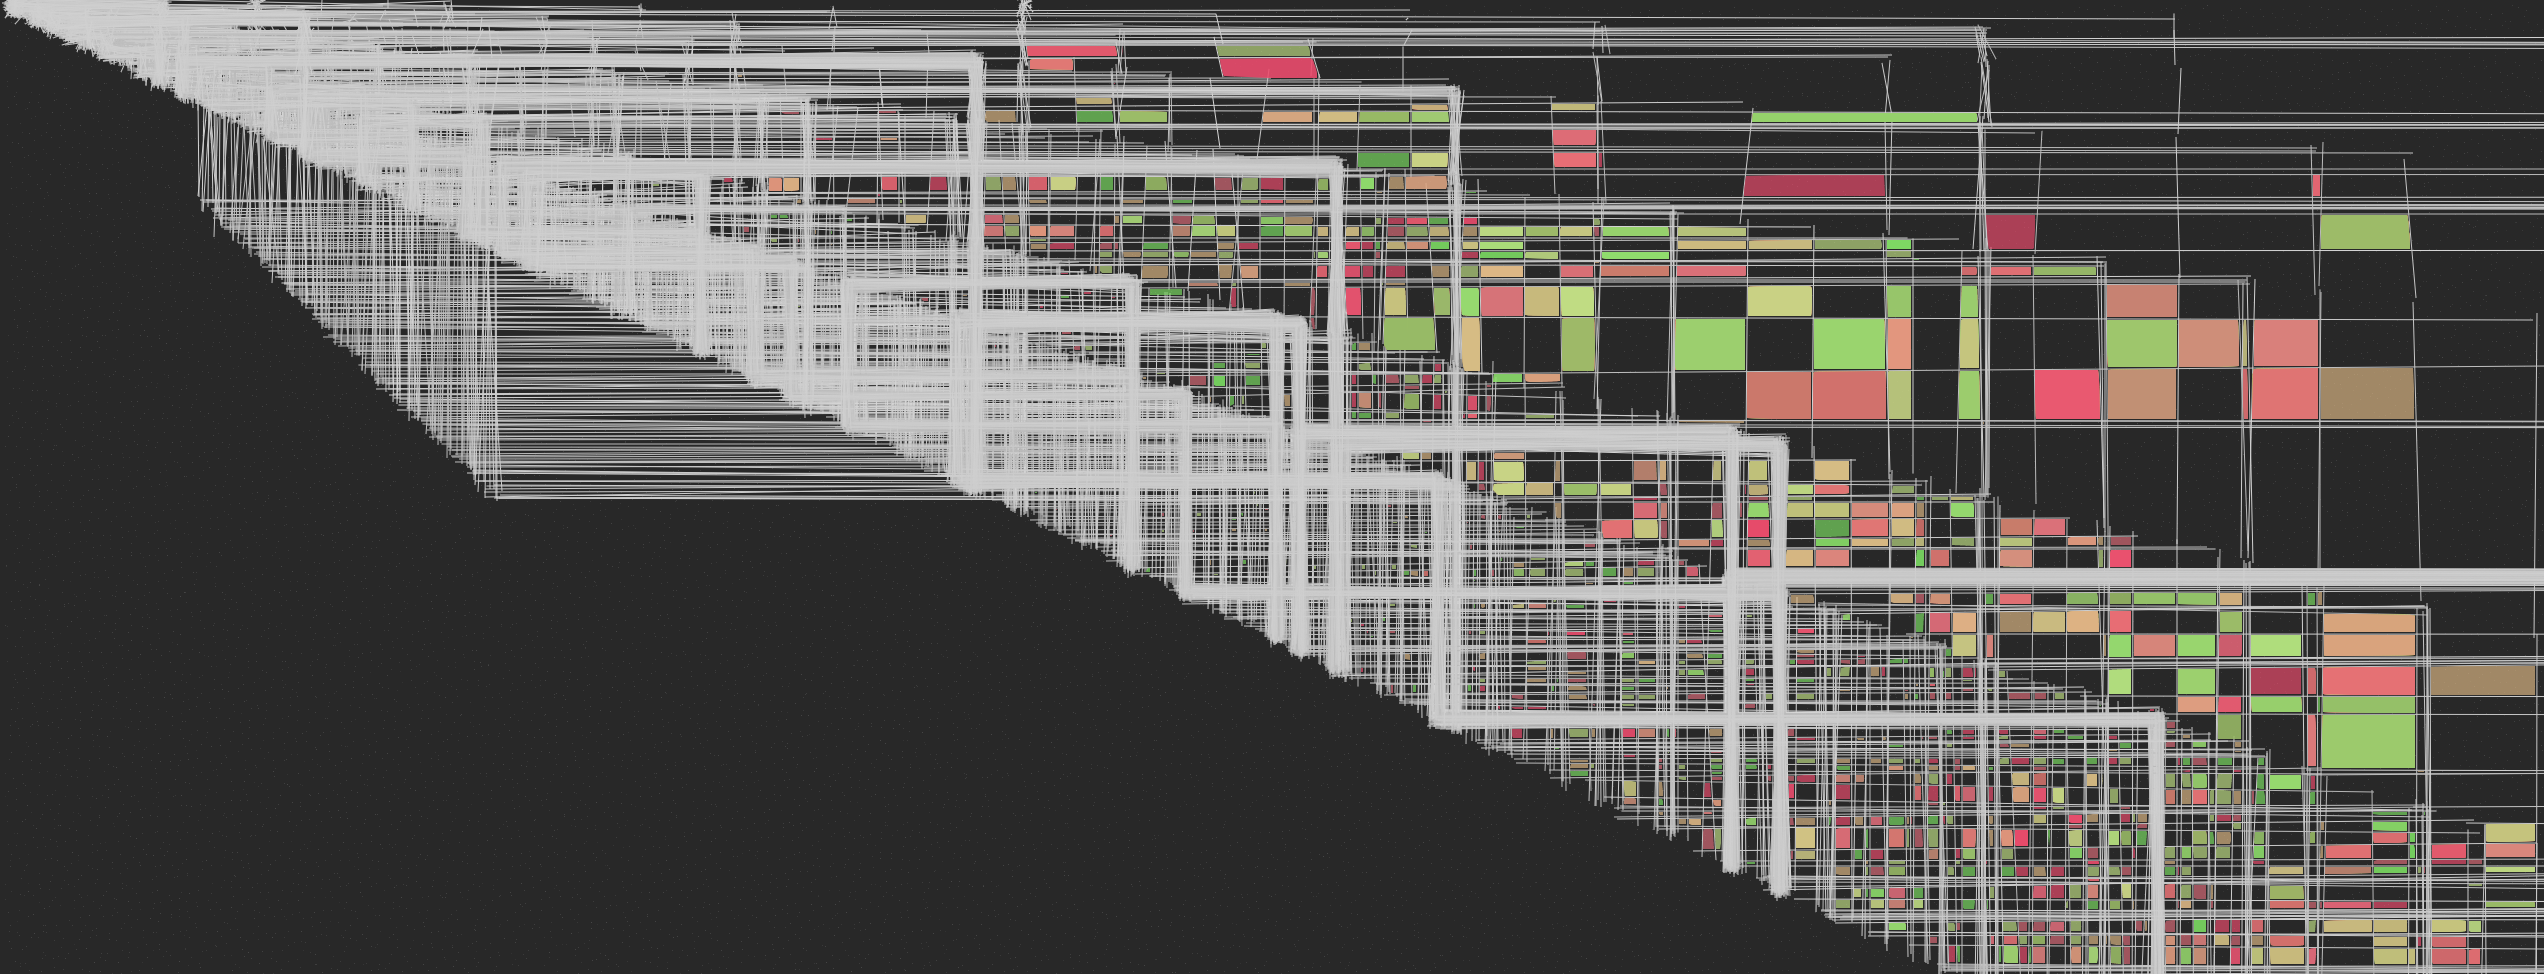
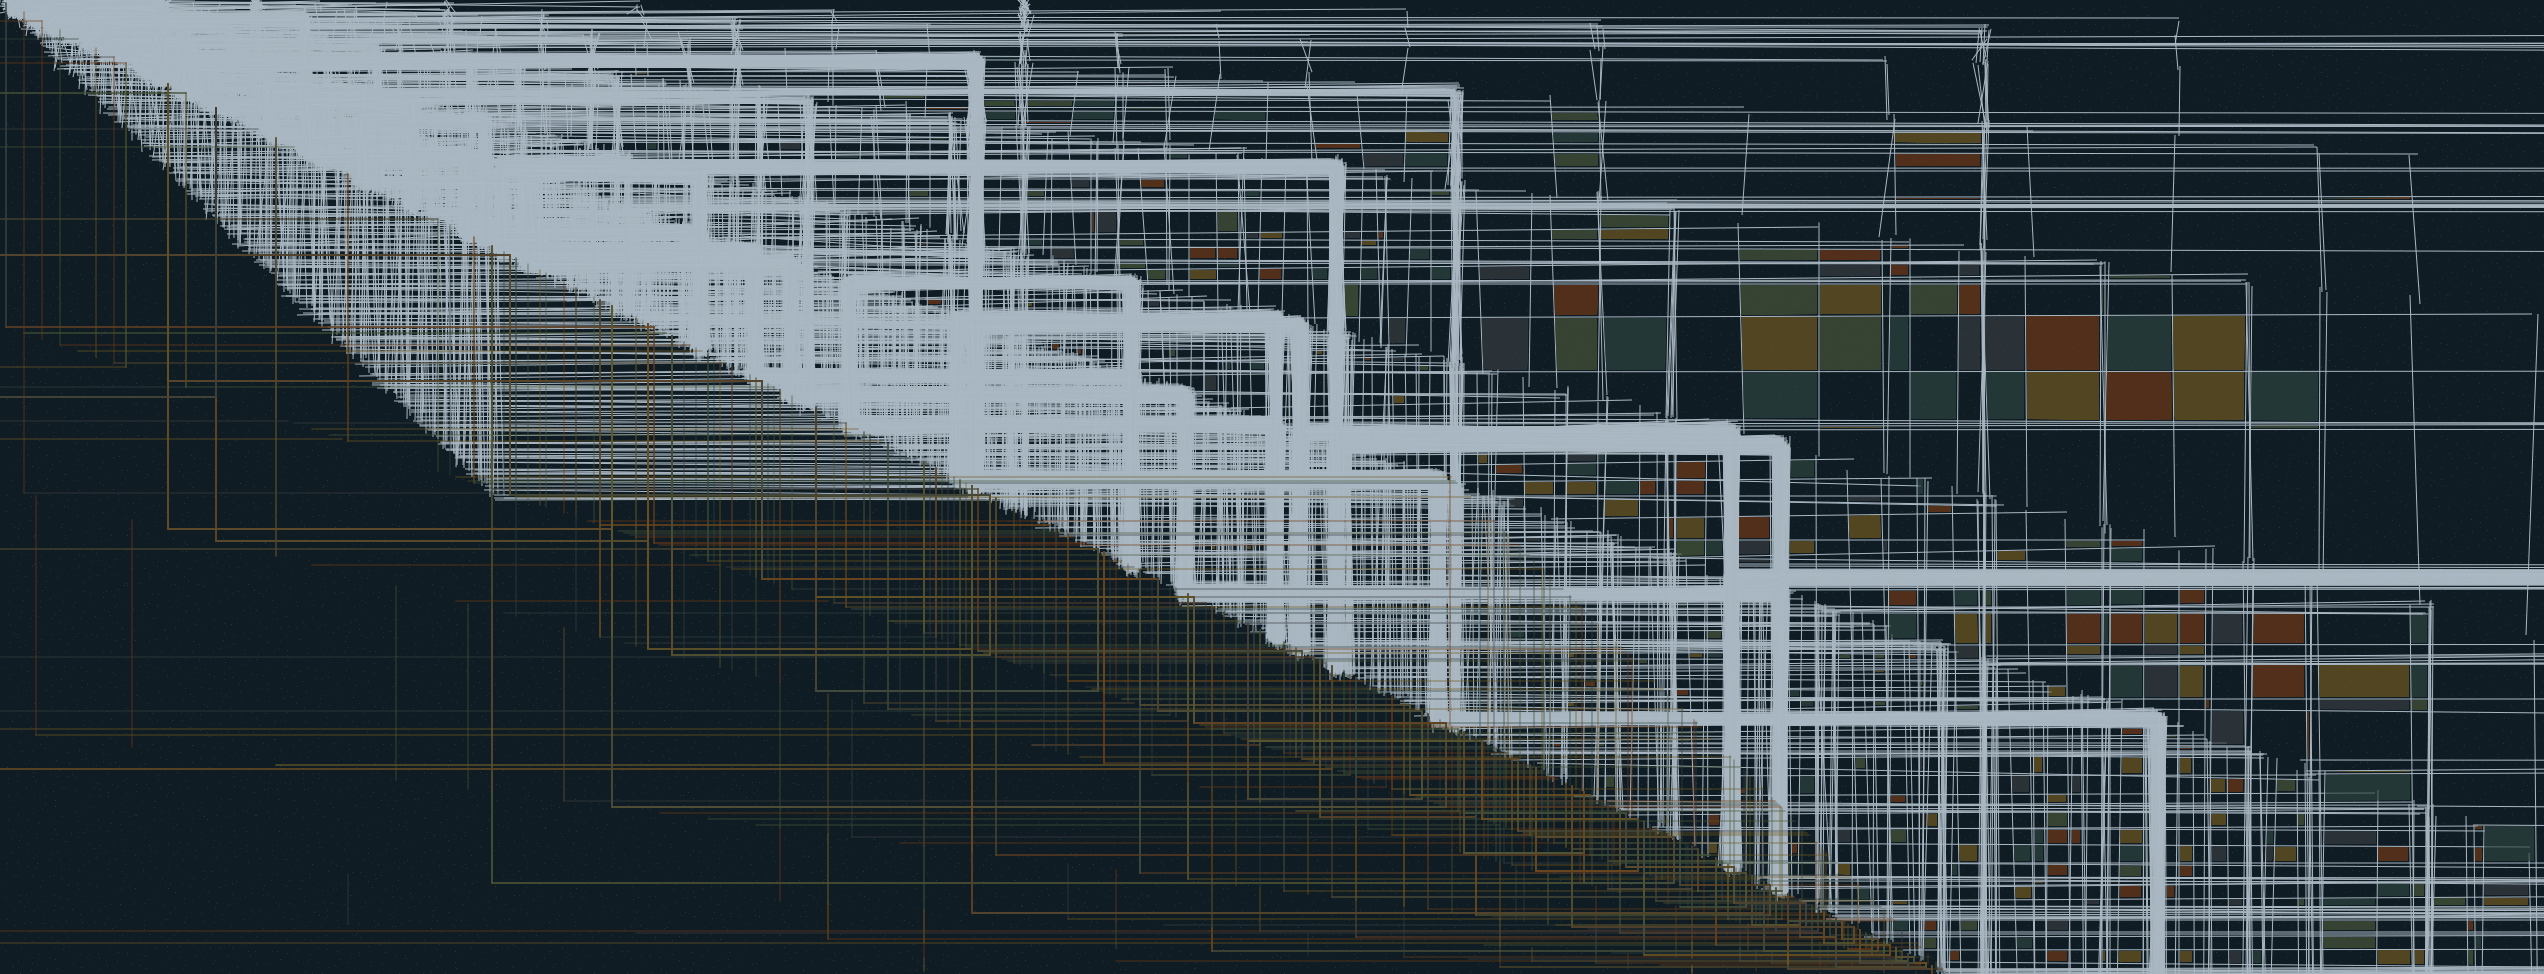
add bottom colored lines

diff --git a/collatz/collatz.js b/collatz/collatz.js
@@ -9,13 +9,13 @@ const LINE_MEAN = 0;
 // std dev for gauss randomization of lines
 const LINE_STD_DEV = 4;
 // start collatz number
-const START_N = 200;
+const START_N = 0;
 // end collatz number
 const END_N = 500;
 // line color alpha
 
 // probability of choosing a colored line
-const COLOR_LINE_PROB = 0.1;
+const COLOR_LINE_PROB = 0.2;
 // coefficient to pass to noise() for x and y coords
 const LINE_NOISE_RATIO = 0.2;
 // change in x values when creating background texture
@@ -39,8 +39,6 @@ const SQUARES_DELTA_X = 25;
 // variance when choosing coords for fill squares
 const SQUARES_VAR = 12;
 const MAX_SQUARE_SIDE = 100;
-// value to add to the y value when starting a new row of fill squares
-const SQUARES_ADJ_X = 500;
 const IGNORE_DIAG_LENGTH = 10;
 const IGNORE_DIAG_LOWER_SLOPE = 0.05;
 const IGNORE_DIAG_UPPER_SLOPE = 10;
@@ -72,6 +70,37 @@ function setup() {
     noLoop();
 }
 function draw() {
+    for (let res of doCollatz()) {
+        stroke(colorGradient(COLORSCHEME.foreground1, COLORSCHEME.foreground2, noise(res.val * LINE_NOISE_RATIO, res.val * LINE_NOISE_RATIO)));
+        line(res.prevX + lineGauss() , res.prevY + lineGauss(), res.nextX + lineGauss(), res.nextY + lineGauss());
+        
+    }
+    for (let res of doCollatz()) {
+        if (random() < COLOR_LINE_PROB) {
+            stroke(random(COLORSCHEME.colors) + ALPHA);
+            line(2 * height - res.prevX, height - res.prevY, 2 * height - res.nextX, height - res.nextY);
+        }
+        
+    }
+    loadPixels();
+    noStroke();
+    for (let y = SQUARES_START_Y; y < height; y += SQUARES_DELTA_Y) {
+        for (let x = y * 2 + SQUARES_VAR; x < width; x += SQUARES_DELTA_X) {
+            let adjX = x + round(equiRandom(SQUARES_VAR));
+            let adjY = y + round(equiRandom(SQUARES_VAR));
+            if (checkPixelColor(adjX, adjY)) {
+                let points = scanlineSeedFilling(adjX, adjY, isBackground);
+                let res = grahamScan(points);
+                if (res.length > 3) {
+                    drawFill(res);
+                }
+            }
+            
+        }
+    }
+}
+
+function* doCollatz() {
     for (let i = START_N; i < END_N; i++) {
         let prevX = i;
         let prevY = i;
@@ -87,37 +116,11 @@ function draw() {
                 nextX = next;
             }
             
-
-            if (random() <= COLOR_LINE_PROB) {
-                stroke(colorGradient(COLORSCHEME.foreground1, COLORSCHEME.foreground2, noise(i * LINE_NOISE_RATIO, i * LINE_NOISE_RATIO)));
-                line(prevX, prevY, nextX, nextY);
-                stroke(random(COLORSCHEME.colors) + ALPHA);
-                line(prevX, prevY, nextX, nextY);
-            }
-            else {
-                stroke(colorGradient(COLORSCHEME.foreground1, COLORSCHEME.foreground2, noise(i * LINE_NOISE_RATIO, i * LINE_NOISE_RATIO)));
-                line(prevX + lineGauss(), prevY + lineGauss(), nextX + lineGauss(), nextY + lineGauss());
-            }
+            yield {prevX, prevY, nextX, nextY, val: i};
 
             prevX = nextX;
             prevY = nextY;
             prev = next;
-        }
-    }
-    loadPixels();
-    noStroke();
-    for (let y = SQUARES_START_Y; y < height; y += SQUARES_DELTA_Y) {
-        for (let x = y + SQUARES_ADJ_X; x < width; x += SQUARES_DELTA_X) {
-            let adjX = x + round(equiRandom(SQUARES_VAR));
-            let adjY = y + round(equiRandom(SQUARES_VAR));
-            if (checkPixelColor(adjX, adjY)) {
-                let points = scanlineSeedFilling(adjX, adjY, isBackground);
-                let res = grahamScan(points);
-                if (res.length > 3) {
-                    drawFill(res);
-                }
-            }
-            
         }
     }
 }
@@ -128,13 +131,13 @@ function checkPixelColor(x, y) {
     if (!isBackground(x, y)) {
         return false;
     }
-    for (; x > 0 && isBackground(x, y); x--);
+    for (; isBackground(x, y); x--);
     if (x === 0 || origX - x > 100) {
         return false;
     }
     x++;
 
-    for (; y > 0 && isBackground(x, y); y--);
+    for (; isBackground(x, y); y--);
     if (y === 0 || origY - y > 100) {
         return false;
     }
@@ -143,15 +146,14 @@ function checkPixelColor(x, y) {
     let minX = x;
     let minY = y;
 
-    topLeft = {x, y};
-    for (; x < width && isBackground(x, y); x++);
+    for (; isBackground(x, y); x++);
     if (x === width || x - minX > MAX_SQUARE_SIDE) {
         return false;
     }
     x--;
 
-    for (; y < height && isBackground(x, y); y++);
-    if (y === height || y - topLeft.y > MAX_SQUARE_SIDE) {
+    for (; isBackground(x, y); y++);
+    if (y === height || y - minY > MAX_SQUARE_SIDE) {
         return false;
     }
     y--;
@@ -182,11 +184,11 @@ function drawFill(res) {
     for (let i = 0; i < res.length; i++) {
         let cur = res[i];
         let next = res[i === res.length - 1 ? 0 : i + 1];
-        let slope = getSlope(cur.x, cur.y, next.x, next.y);
+        let slope = Math.abs(getSlope(cur.x, cur.y, next.x, next.y));
         // Don't draw shapes with large diagonal lines
-        if (slope !== -Infinity && slope !== Infinity && 
+        if (slope !== Infinity && 
             distance(cur.x, cur.y, next.x, next.y) > IGNORE_DIAG_LENGTH && 
-            Math.abs(slope) > IGNORE_DIAG_LOWER_SLOPE && Math.abs(slope) < IGNORE_DIAG_UPPER_SLOPE) {
+            slope > IGNORE_DIAG_LOWER_SLOPE && slope < IGNORE_DIAG_UPPER_SLOPE) {
             return;
         }
     }
@@ -198,10 +200,7 @@ function drawFill(res) {
     loadPixels();
 }
 
-function isBackground(x, y) {
-    return getPixel(x, y, PIXEL_DENSITY).every((d, i) => d >= minBgVals[i] && d <= maxBgVals[i])
-}
-
+const isBackground = (x, y) => x < width && y < height && getPixel(x, y, PIXEL_DENSITY).every((d, i) => d >= minBgVals[i] && d <= maxBgVals[i]);
 
 function lineGauss() {
     return round(randomGaussian(LINE_MEAN, LINE_STD_DEV));

diff --git a/trees/trees.js b/trees/trees.js
@@ -117,7 +117,7 @@ function drawTree(x, y, color) {
         let slope = getSlope(curLine.x1, curLine.y1, curLine.x2, curLine.y2);
         let intercept = curLine.y1 - (slope * curLine.x1);
         let x1 = random(curLine.x1 + (xThreshEnd * (curLine.x2 - curLine.x1)), curLine.x2 - (xThreshEnd * (curLine.x2 - curLine.x1)));
-        let y1 = (slope === Infinity || slope === -Infinity) 
+        let y1 = (Math.abs(slope) === Infinity) 
             ? random(curLine.y1 - (yThreshFactorBottom * (curLine.y1 - curLine.y2)), curLine.y2 + (yThreshFactorTop * (curLine.y1 - curLine.y2))) 
             : slope * x1 + intercept;
         let x2 = x1 + random(-X_VAR, X_VAR);
@@ -131,7 +131,7 @@ function drawTree(x, y, color) {
         for (prevLine of lines) {
             prevSlope = getSlope(prevLine.x1, prevLine.y1, prevLine.x2, prevLine.y2);
             // Don't allow any lines to intersect, any two slopes to be too similar, or any two end points to be too close
-            if (curSlope === Infinity || curSlope === -Infinity ||
+            if (Math.abs(curSlope === Infinity)||
                 intersects(x1, y1, x2, y2, prevLine.x1, prevLine.y1, prevLine.x2, prevLine.y2) || 
                 prevSlope - slopeThresh <= curSlope && curSlope <= prevSlope + slopeThresh ||
                 distance(x2, y2, prevLine.x2, prevLine.y2) < DIST_THRESH) {

diff --git a/colors.js b/colors.js
@@ -16,8 +16,8 @@ const COLORS = {
     autumn: {
         background1: '#101C23',
         background2: '#233641',
-        foreground1: '#bdd0db',
-        foreground2: '#cddce4',
+        foreground1: '#acbcc7',
+        foreground2: '#a5b1bb',
         colors: ['#743A15', '#735C20', '#4A583B', '#2D473F', '#393E41']
     },
     nordDark: {
